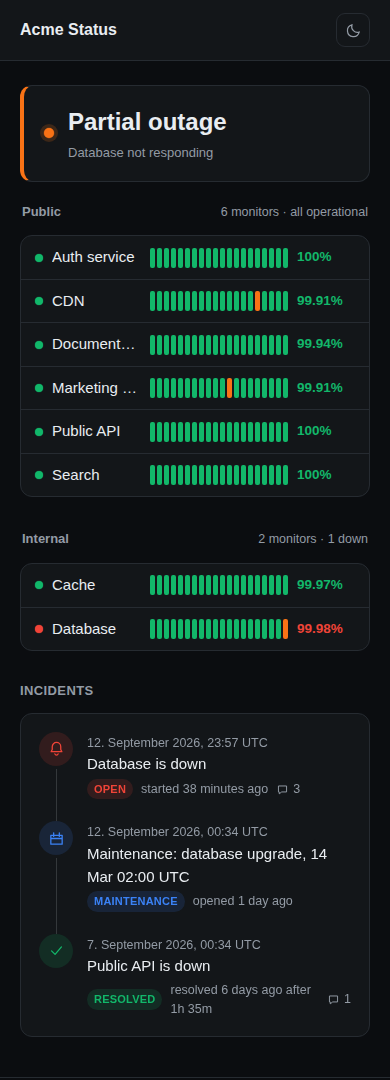
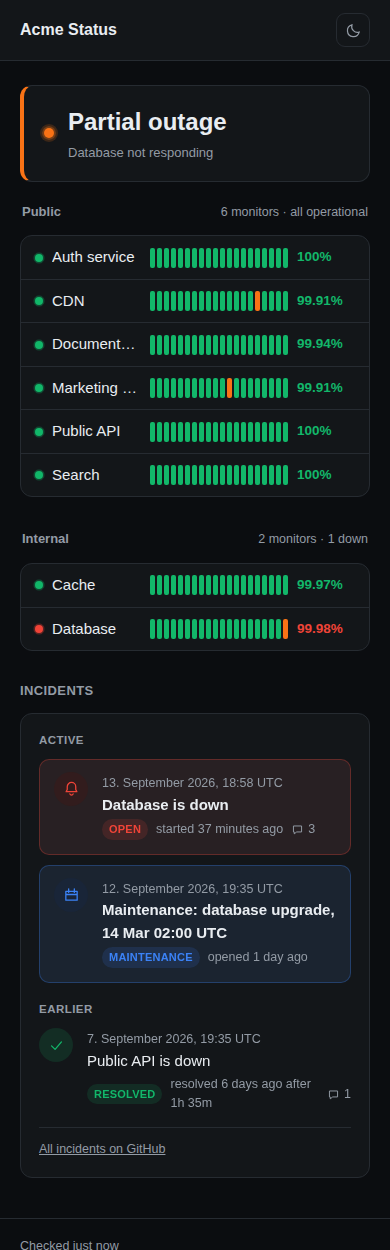
feat: a live outage leads the incident list
An open incident sat wherever its date put it, so one opened days ago
ranked below incidents that had since been resolved, looking the same as
them. Open ones now lead the list under an "Active" heading, lifted out
of the timeline in their status colour, and that emphasis follows them
into a monitor's dialog.

A quiet month said nothing at all, the section simply vanished; it now
says there were no incidents, which is the news a reader came for.

The list ends with a link to every incident on GitHub, so the ones past
the ten it keeps are reachable.

diff --git a/site/app.js b/site/app.js
@@ -30,6 +30,10 @@ const monitorsEl = document.getElementById('monitors');
 // The page shows a fixed window; the detail view shows the whole history.
 const RANGE_DAYS = 30;
 const BAR_WIDTH = 5;
+// How far back the list reaches, and how many resolved entries it keeps. An
+// open incident is always listed, however old it is.
+const INCIDENT_DAYS = 30;
+const PAST_INCIDENTS = 10;
 let data;
 
 const el = (tag, className, text) => {
@@ -265,9 +269,9 @@ function commentCount(count) {
 }
 
 // One entry of the timeline: when it happened, what happened, and how it went.
-function renderIncidentItem(incident) {
+function renderIncidentItem(incident, active = false) {
   const state = incident.maintenance ? 'maintenance' : incident.state === 'open' ? 'open' : 'resolved';
-  const item = el('li', 'event');
+  const item = el('li', active ? 'event is-active' : 'event');
   item.dataset.state = state;
 
   const icon = el('span', 'event-icon');
@@ -531,7 +535,8 @@ async function openDetail(slug) {
   incidentSection.append(el('h3', 'section-title', 'Incidents'));
   if (related.length) {
     const list = el('ul', 'incident-list');
-    for (const incident of related) list.append(renderIncidentItem(incident));
+    // An open incident looks open wherever it is listed.
+    for (const incident of related) list.append(renderIncidentItem(incident, incident.state === 'open'));
     incidentSection.append(list);
   } else {
     incidentSection.append(el('p', 'detail-empty', 'No incidents recorded for this monitor.'));
@@ -592,16 +597,29 @@ addEventListener('hashchange', syncDialog);
 function renderIncidents(incidents) {
   const section = document.getElementById('incidents');
   const list = document.getElementById('incident-list');
+  const empty = document.getElementById('incidents-empty');
+  const more = document.getElementById('incidents-more');
+
   const recent = incidents.filter(
-    (incident) => incident.state === 'open' || Date.now() - new Date(incident.createdAt) < 30 * 86400000,
+    (incident) => incident.state === 'open' || Date.now() - new Date(incident.createdAt) < INCIDENT_DAYS * 86400000,
   );
-  if (recent.length === 0) {
-    section.hidden = true;
-    return;
-  }
+  // An outage that is still open leads, whatever its date: one opened days ago
+  // would otherwise sink below incidents that have since been resolved.
+  const active = recent.filter((incident) => incident.state === 'open');
+  const past = recent.filter((incident) => incident.state !== 'open').slice(0, PAST_INCIDENTS);
 
   list.replaceChildren();
-  for (const incident of recent.slice(0, 10)) list.append(renderIncidentItem(incident));
+  if (active.length && past.length) list.append(el('li', 'event-group', 'Active'));
+  for (const incident of active) list.append(renderIncidentItem(incident, true));
+  if (active.length && past.length) list.append(el('li', 'event-group', 'Earlier'));
+  for (const incident of past) list.append(renderIncidentItem(incident));
+
+  // Nothing having happened is the good news a status page is there to give,
+  // so it is said rather than left to an absent section.
+  empty.textContent = `No incidents in the last ${INCIDENT_DAYS} days.`;
+  empty.hidden = recent.length > 0;
+  more.hidden = !data.issuesUrl;
+  if (data.issuesUrl) document.getElementById('incidents-link').href = data.issuesUrl;
   section.hidden = false;
 }
 

diff --git a/site/style.css b/site/style.css
@@ -269,12 +269,69 @@ main.shell {
 
 /* Only the list on the page is a box of its own, with the heading above it as
    the monitors have. The one inside a dialog stays flat. */
-#incident-list {
+.incident-box {
   padding: 18px;
   border: 1px solid var(--border);
   border-radius: var(--radius);
   background: var(--surface);
   box-shadow: var(--shadow);
+}
+
+.incidents-empty {
+  margin: 0;
+  font-size: 13.5px;
+  color: var(--muted);
+}
+
+/* The list ends where the entries end; the link below it is separated so it
+   does not read as part of the last one. */
+#incident-list .event:last-child {
+  padding-bottom: 0;
+}
+
+.incidents-more {
+  margin: 14px 0 0;
+  padding-top: 12px;
+  border-top: 1px solid var(--border);
+  font-size: 12.5px;
+}
+
+.incidents-more a {
+  color: var(--muted);
+}
+
+/* An outage that is still open leads the list and is lifted out of it, so a
+   live incident is never a row like any other. */
+.event.is-active {
+  padding: 12px 14px 14px;
+  border-radius: 10px;
+  border: 1px solid color-mix(in srgb, var(--status) 30%, transparent);
+  background: color-mix(in srgb, var(--status) 7%, var(--surface-alt));
+}
+
+.event.is-active + .event.is-active {
+  margin-top: 10px;
+}
+
+.event.is-active::before {
+  display: none;
+}
+
+.event.is-active .incident-title {
+  font-weight: 600;
+}
+
+.event-group {
+  margin: 18px 0 10px;
+  font-size: 11.5px;
+  font-weight: 600;
+  letter-spacing: 0.04em;
+  text-transform: uppercase;
+  color: var(--muted);
+}
+
+.event-group:first-child {
+  margin-top: 0;
 }
 
 .incident-title {

diff --git a/site/index.html b/site/index.html
@@ -42,7 +42,13 @@
         <div class="list-head">
           <h2 class="section-title">Incidents</h2>
         </div>
-        <ul id="incident-list" class="incident-list"></ul>
+        <div class="incident-box">
+          <ul id="incident-list" class="incident-list"></ul>
+          <p id="incidents-empty" class="incidents-empty" hidden></p>
+          <p id="incidents-more" class="incidents-more" hidden>
+            <a id="incidents-link" href="#" rel="noopener" target="_blank">All incidents on GitHub</a>
+          </p>
+        </div>
       </section>
     </main>
 

diff --git a/README.md b/README.md
@@ -299,6 +299,11 @@ five are kept, each cut to 800 characters, with a line pointing at GitHub when
 there are more. A run only asks GitHub for a thread whose comment count
 changed, so a quiet run costs no extra requests.
 
+The page lists an open incident first, whatever its date, so a live outage is
+never below something that has since been resolved; resolved entries follow, the
+last ten within 30 days, with a link to the rest on GitHub. A quiet month says
+so rather than hiding the section.
+
 Issues labelled with the incident label show up on the page, so you can also
 open one by hand for planned work: the **Planned maintenance** issue template
 applies the `status` and `maintenance` labels and the entry is rendered as
